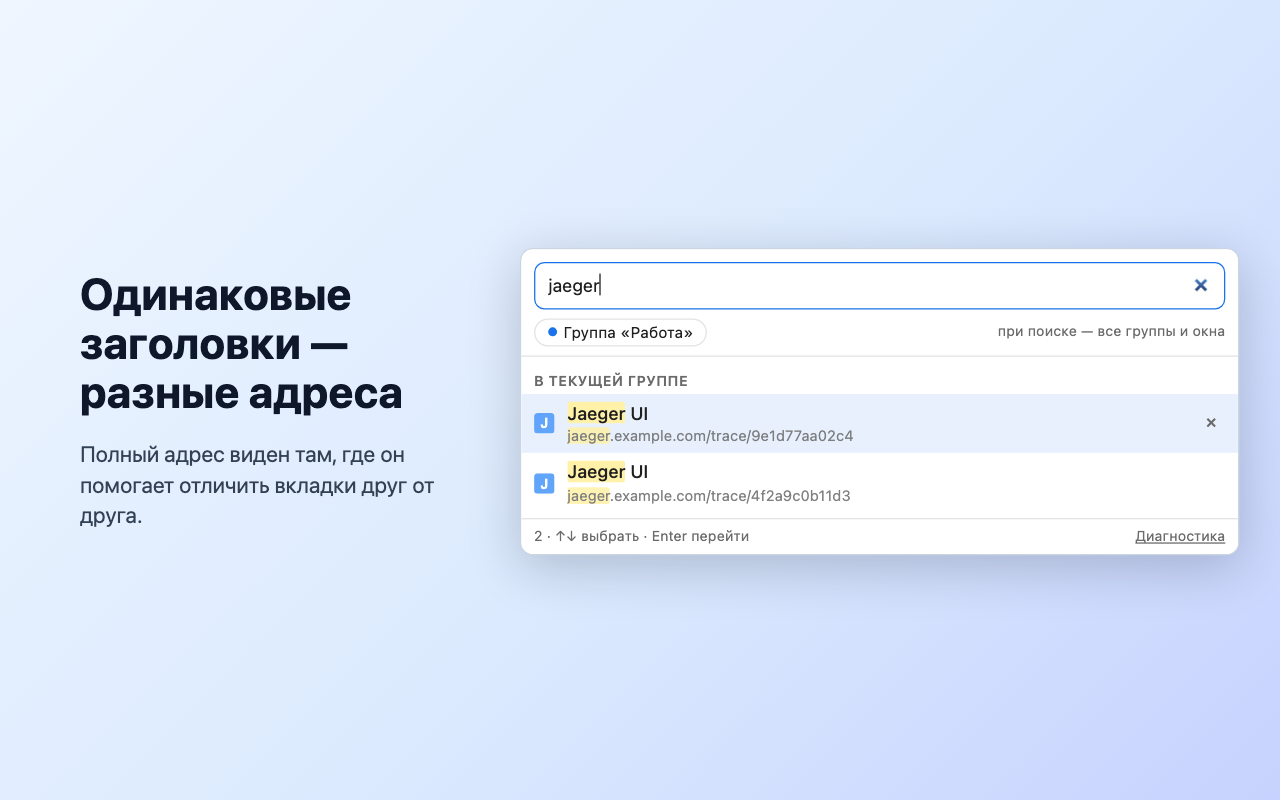
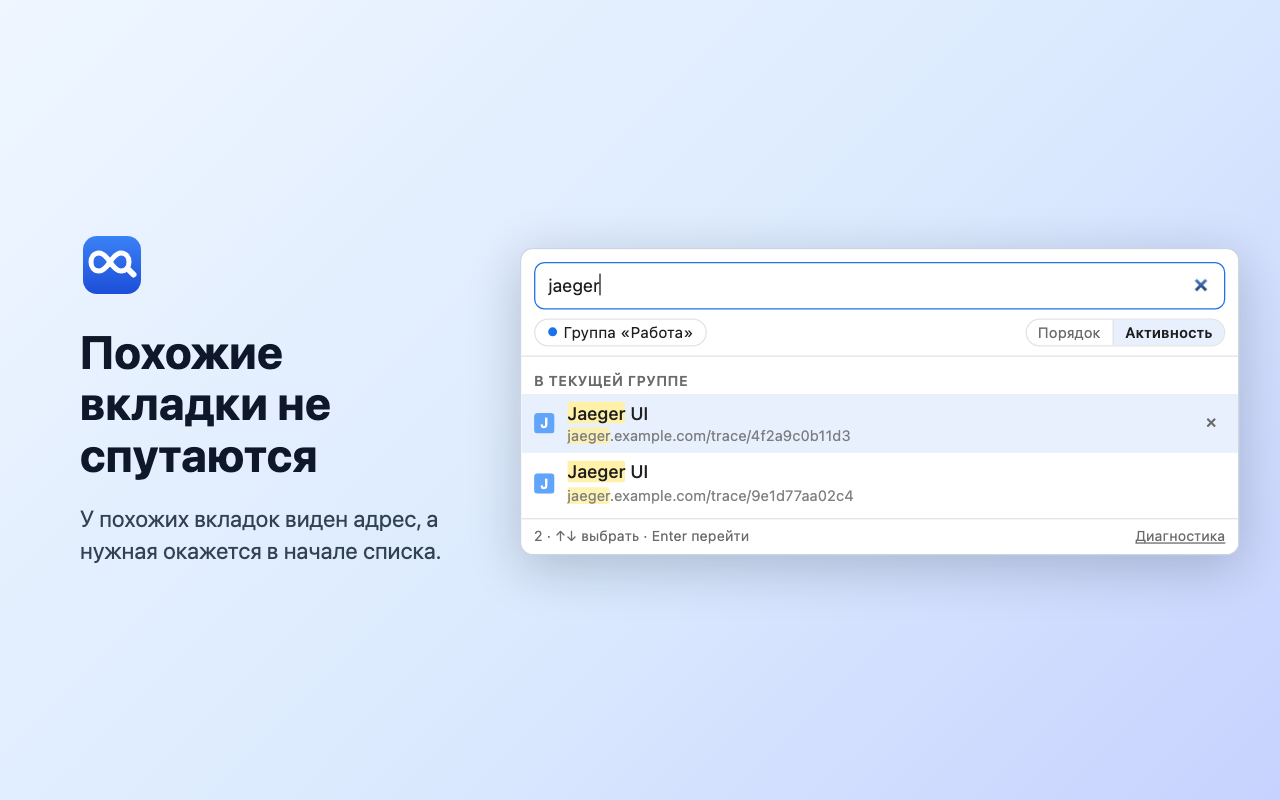
Скриншоты Chrome Web Store: пять кадров с подписями про выгоду
- вместо технических подписей — короткие тезисы: поиск за секунду,
  свежие вкладки первыми, одинаковые заголовки, возврат, приватность;
- кадры показывают переключатель «Активность» и сортировку по времени;
- в уведомлении при первом запуске уточнено: не сохраняются заголовки
  и адреса (запоминаются только номер вкладки для «Вернуться» и настройки).

diff --git a/dev/store-shot-chrome.html b/dev/store-shot-chrome.html
@@ -12,8 +12,9 @@
       font-family: -apple-system, "Segoe UI", system-ui, sans-serif; color: #0f172a;
     }
     .caption { position: absolute; left: 80px; top: 0; bottom: 0; width: 400px; display: flex; flex-direction: column; justify-content: center; }
-    .caption h1 { margin: 0 0 22px; font-size: 44px; line-height: 1.12; font-weight: 700; }
-    .caption p { margin: 0; font-size: 22px; line-height: 1.4; color: #334155; }
+    .caption img { width: 64px; height: 64px; margin-bottom: 30px; }
+    .caption h1 { margin: 0 0 22px; font-size: 46px; line-height: 1.12; font-weight: 700; }
+    .caption p { margin: 0; font-size: 23px; line-height: 1.4; color: #334155; }
     iframe {
       position: absolute; left: 520px; top: 30px; width: 560px; height: 580px;
       transform: scale(1.28); transform-origin: 0 0;
@@ -22,19 +23,26 @@
   </style>
 </head>
 <body>
-  <div class="caption"><h1 id="t"></h1><p id="d"></p></div>
+  <div class="caption"><img src="../assets/icon.svg" alt=""><h1 id="t"></h1><p id="d"></p></div>
   <script>
-    // ?shot=1|2|3 — какой кадр; подписи и запрос зависят от него.
+    // ?shot=1…5 — какой кадр. Подписи пишем про выгоду, а не про устройство выдачи: это витрина магазина.
+    // frame — параметры для preview.html (мок браузера), q — запрос в строке поиска, back — id вкладки для «Вернуться».
     const SHOTS = {
-      1: { title: 'Текущая группа — всегда под рукой',
-           text: 'Без запроса видны только вкладки текущей группы, новые сверху. Текущая вкладка отмечена, а строка «Вернуться» возвращает туда, откуда пришли.',
-           back: '4' },
-      2: { title: 'Поиск по всем группам и окнам',
-           text: 'Сначала совпадения в текущей группе, затем в остальных — с подписью, где лежит вкладка.',
+      1: { title: 'Любая вкладка — за секунду',
+           text: 'Печатайте название, сайт или адрес. Ищем сразу во всех группах и окнах.',
            q: 'github' },
-      3: { title: 'Одинаковые заголовки — разные адреса',
-           text: 'Полный адрес виден там, где он помогает отличить вкладки друг от друга.',
-           q: 'jaeger' },
+      2: { title: 'Свежие вкладки — первыми',
+           text: 'Только что работали с вкладкой? Режим «Активность» поднимет её наверх.',
+           frame: '&sort=activity' },
+      3: { title: 'Похожие вкладки не спутаются',
+           text: 'У похожих вкладок виден адрес, а нужная окажется в начале списка.',
+           frame: '&sort=activity', q: 'jaeger' },
+      4: { title: 'Назад — одним нажатием',
+           text: 'Расширение помнит, откуда вы пришли. Откройте окно и нажмите Enter — вы снова на месте.',
+           back: '4' },
+      5: { title: 'Ваши вкладки — только ваши',
+           text: 'Расширение работает только в вашем браузере: данные о вкладках никуда не отправляются.',
+           frame: '&firstrun' },
     };
     const shot = SHOTS[new URLSearchParams(location.search).get('shot')] || SHOTS[1];
     document.getElementById('t').textContent = shot.title;
@@ -42,12 +50,14 @@
     sessionStorage.clear();
     if (shot.back) sessionStorage.setItem('returnTo', shot.back);
     const frame = document.createElement('iframe');
-    frame.src = 'preview.html?store';
+    frame.src = 'preview.html?store' + (shot.frame || '');
     const SCALE = 1.28;
     frame.addEventListener('load', () => setTimeout(() => {
       const doc = frame.contentDocument;
       const input = doc.querySelector('.query');
-      if (shot.q) {
+      // На кадре с уведомлением убираем рамку фокуса с кнопки: в магазине она выглядит как дефект.
+      if (!input) doc.activeElement?.blur?.();
+      if (shot.q && input) {
         input.value = shot.q;
         input.dispatchEvent(new Event('input'));
       }

diff --git a/dev/mock-chrome.js b/dev/mock-chrome.js
@@ -1,6 +1,6 @@
 // Подмена chrome.* для просмотра popup в обычной вкладке. ?nogroups — браузер без API групп,
 // ?ungrouped — активная вкладка вне группы, ?yandex — группы браузера не видны расширению,
-// ?store — правдоподобный набор вкладок для скриншотов в каталог, ?firstrun — первый запуск (уведомление).
+// ?store — правдоподобный набор вкладок для скриншотов в каталог, ?firstrun — первый запуск (уведомление), ?sort=activity — выбрана сортировка «Активность».
 (() => {
   const params = new URLSearchParams(location.search);
   const noGroups = params.has('nogroups');
@@ -34,6 +34,11 @@
     ['Входящие — Почта', 'https://mail.example.com/inbox', 7, 1, fav('П', '#1a73e8')],
   ];
 
+  // Сколько минут назад смотрели вкладку (по порядку storeRaw). Две «Jaeger UI»: левую только что открывали,
+  // правую — давно, поэтому «Порядок» и «Активность» ставят их по-разному.
+  const STORE_AGO_MIN = [9000, 8000, 4000, 3900, 3800, 3000, 2500, 180, 45, 20, 90, 5, 1, 300, 0];
+  const STORE_NOW = 1792800000000;
+
   const raw = [
     ['Jira — RSI-123 Поиск по вкладкам', 'https://jira.example.com/browse/RSI-123', 7],
     ['Merge request !42 · gitlab', 'https://gitlab.example.com/group/repo/-/merge_requests/42', 7],
@@ -50,6 +55,7 @@
   ];
   let tabs = store ? storeRaw.map(([title, url, groupId, windowId, favIconUrl, pinned = false], i, all) => ({
     id: i + 1, index: i, windowId, title, url, favIconUrl, pinned, groupId, active: i === all.length - 1,
+    lastAccessed: STORE_NOW - STORE_AGO_MIN[i] * 60000,
   })) : raw.map(([title, url, groupId, windowId = 1], i) => ({
     id: i + 1, index: i, windowId, title, url, active: i === 7 || i === 8,
     groupId: noGroups ? undefined : yandex ? NONE : groupId, pinned: yandex && i < 2,
@@ -85,6 +91,7 @@
         async get(k) {
           const v = localStorage.getItem('mock:' + k);
           if (v) return { [k]: JSON.parse(v) };
+          if (k === 'sort' && params.get('sort')) return { sort: params.get('sort') };
           return k === 'consent' && !params.has('firstrun') ? { [k]: 1 } : {};
         },
         async set(o) { for (const [k, v] of Object.entries(o)) localStorage.setItem('mock:' + k, JSON.stringify(v)); },

diff --git a/extension/popup.js b/extension/popup.js
@@ -329,7 +329,7 @@ function showConsent() {
   box.append(
     el('h2', null, 'Поиск по вкладкам'),
     el('p', null, 'Расширение читает заголовки и адреса ваших открытых вкладок, чтобы показать их списком и искать по ним.'),
-    el('p', null, 'Всё происходит только внутри браузера: данные нигде не сохраняются и никуда не отправляются.'),
+    el('p', null, 'Всё происходит только внутри браузера: заголовки и адреса не сохраняются и никуда не отправляются.'),
     el('p', 'consent-link', ''),
     ok,
   );

diff --git a/store/chrome-listing.md b/store/chrome-listing.md
@@ -9,12 +9,22 @@
 | Пакет | `tab-search.zip` (`npm run zip`), версия **1.3.0**: как в Opera 1.1.0, плюс уведомление при первом запуске, переключатель сортировки «Порядок / Активность», без отдельной горячей клавиши возврата |
 | Иконка магазина 128×128 | лежит в пакете: `extension/icons/icon-128.png` |
 | Малая промо-плитка 440×280 (обязательна) | [promo-440x280.png](promo-440x280.png) |
-| Скриншоты 1280×800 (нужен минимум один, до пяти) | [chrome/screenshots/](chrome/screenshots/): три кадра |
+| Скриншоты 1280×800 (нужен минимум один, до пяти) | [chrome/screenshots/](chrome/screenshots/): пять кадров, порядок по номерам в именах файлов |
 | Большая промо-плитка 1400×560 | необязательна, нужна только для попадания в подборки |
 | Политика конфиденциальности | https://github.com/ArturAntonov/browser-ext-tabs/blob/main/PRIVACY.md |
 | Сайт / поддержка | https://github.com/ArturAntonov/browser-ext-tabs |
 
 Перерисовать: `npm run screenshots:chrome` (нужен `npm run preview`), `npm run promo -- 440 280`.
+
+**Подписи на скриншотах** пишем про выгоду, а не про устройство выдачи: это витрина магазина, подробности остаются в описании. Тексты лежат в [dev/store-shot-chrome.html](../dev/store-shot-chrome.html):
+
+1. «Любая вкладка — за секунду» — поиск по названию, сайту и адресу сразу во всех группах и окнах.
+2. «Свежие вкладки — первыми» — режим «Активность».
+3. «Похожие вкладки не спутаются» — одинаковые заголовки, виден адрес.
+4. «Назад — одним нажатием» — строка «Вернуться».
+5. «Ваши вкладки — только ваши» — приватность: уведомление при первом запуске.
+
+Данные на кадрах вымышленные (адреса example.com и открытые сайты), личных вкладок на них нет.
 
 ## Вкладка Store listing
 
@@ -46,7 +56,7 @@
 - подтвердить три стандартных заявления: данные не продаются, не используются не по назначению, не используются для оценки кредитоспособности;
 - указать ссылку на политику конфиденциальности (она в репозитории).
 
-Уведомление в интерфейсе: при первом запуске окно показывает, что читаются заголовки и адреса вкладок и что ничего не сохраняется и не отправляется, а вкладки не читаются, пока пользователь не нажал «Понятно». Это закрывает требование о раскрытии в самом продукте.
+Уведомление в интерфейсе: при первом запуске окно показывает, что читаются заголовки и адреса вкладок и что заголовки и адреса не сохраняются и не отправляются, а вкладки не читаются, пока пользователь не нажал «Понятно». Это закрывает требование о раскрытии в самом продукте.
 
 Ответы должны совпадать с [PRIVACY.md](../PRIVACY.md) и реальным поведением: расхождение считается нарушением.
 
